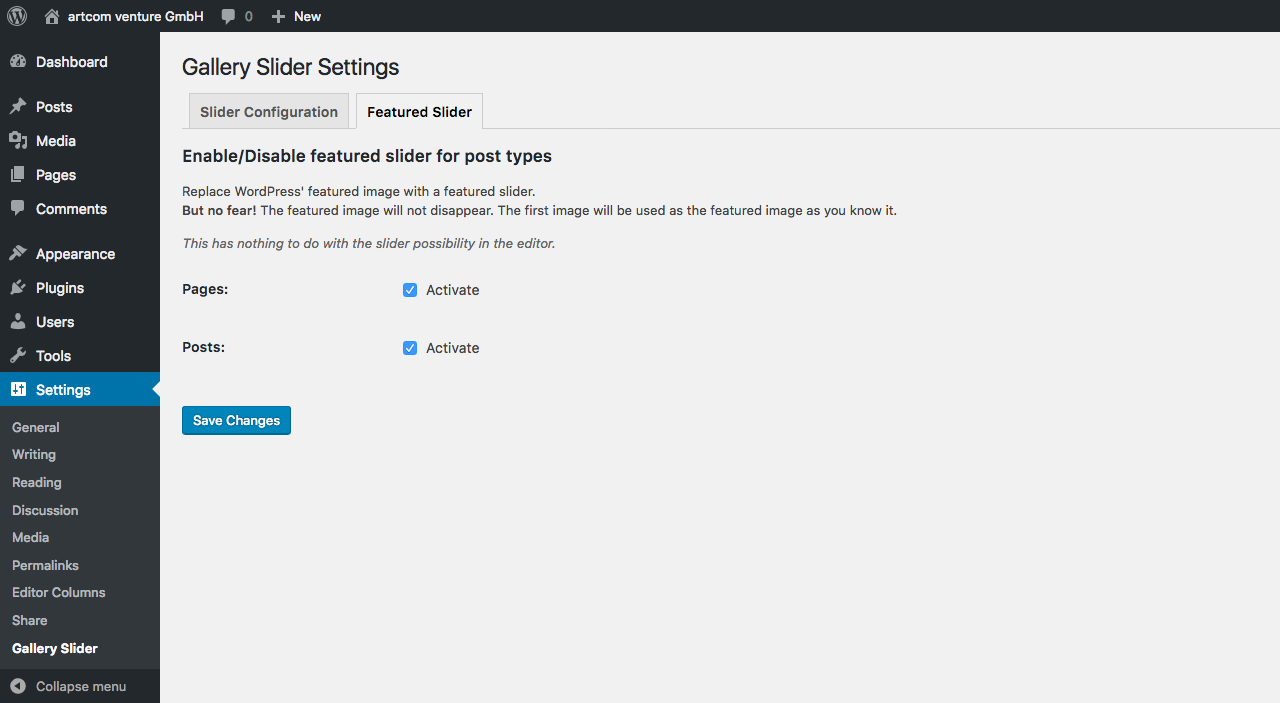
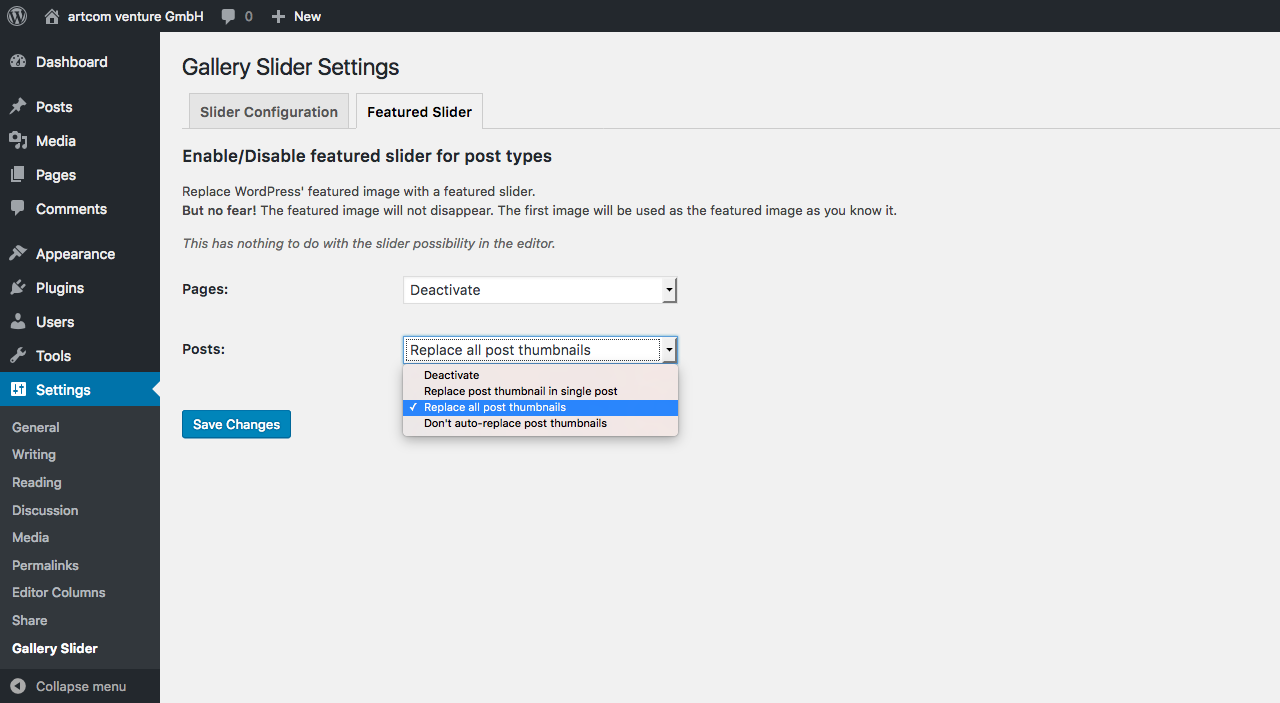
Added more display settings for featured slider.

diff --git a/build/js/settings.options-page.min.js b/build/js/settings.options-page.min.js
@@ -1,1 +1,1 @@
-!function(a){var t=a('input[name="_wp_http_referer"]'),e=a("div.nav-section"),n=a("a.nav-tab").on("click",function(v){var r=a(this).blur();if(!r.hasClass("nav-tab-active")){var i=r[0].search.match(/(\?|&)tab=([^&]*)/);if(i){var l=a("#"+i[2]);l.length&&(v.preventDefault(),n.removeClass("nav-tab-active"),r.addClass("nav-tab-active"),e.hide(),l.show(),window.history.pushState(null,null,r.prop("href")),t.val(t.val().replace(/(\?|&)tab=([^&]*)/,"$1tab="+i[2])))}}})}(jQuery);
+!function(a){var t=a('input[name="_wp_http_referer"]'),e=a("div.nav-section"),n=a("a.nav-tab").on("click",function(i){var r=a(this).blur();if(!r.hasClass("nav-tab-active")){var v=r[0].search.match(/(\?|&)tab=([^&]*)/);if(v){var l=a("#"+v[2]);l.length&&(i.preventDefault(),n.removeClass("nav-tab-active"),r.addClass("nav-tab-active"),e.hide(),l.show(),window.history.pushState(null,null,r.prop("href")),t.val(t.val().replace(/(\?|&)tab=([^&]*)/,"$1tab="+v[2])))}}});window.location.search.match(/(\?|&)tab=([^&]*)/)||(window.location.href=n[0].href)}(jQuery);

diff --git a/js/settings.options-page.min.js b/js/settings.options-page.min.js
@@ -1,1 +1,1 @@
-!function(a){var t=a('input[name="_wp_http_referer"]'),e=a("div.nav-section"),n=a("a.nav-tab").on("click",function(v){var r=a(this).blur();if(!r.hasClass("nav-tab-active")){var i=r[0].search.match(/(\?|&)tab=([^&]*)/);if(i){var l=a("#"+i[2]);l.length&&(v.preventDefault(),n.removeClass("nav-tab-active"),r.addClass("nav-tab-active"),e.hide(),l.show(),window.history.pushState(null,null,r.prop("href")),t.val(t.val().replace(/(\?|&)tab=([^&]*)/,"$1tab="+i[2])))}}})}(jQuery);
+!function(a){var t=a('input[name="_wp_http_referer"]'),e=a("div.nav-section"),n=a("a.nav-tab").on("click",function(i){var r=a(this).blur();if(!r.hasClass("nav-tab-active")){var v=r[0].search.match(/(\?|&)tab=([^&]*)/);if(v){var l=a("#"+v[2]);l.length&&(i.preventDefault(),n.removeClass("nav-tab-active"),r.addClass("nav-tab-active"),e.hide(),l.show(),window.history.pushState(null,null,r.prop("href")),t.val(t.val().replace(/(\?|&)tab=([^&]*)/,"$1tab="+v[2])))}}});window.location.search.match(/(\?|&)tab=([^&]*)/)||(window.location.href=n[0].href)}(jQuery);

diff --git a/build/js/slider.js b/build/js/slider.js
@@ -1,5 +1,5 @@
 /**
- * Slider v1.10.3
+ * Slider v1.10.4
  * https://github.com/artcomventure/wordpress-plugin-slider/blob/master/build/js/slider[.min].js
  *
  * Copyright 2016, artcom venture GmbH

diff --git a/build/js/slider.min.js b/build/js/slider.min.js
@@ -1,5 +1,5 @@
 /**
- * Slider v1.10.3
+ * Slider v1.10.4
  * https://github.com/artcomventure/wordpress-plugin-slider/blob/master/build/js/slider[.min].js
  *
  * Copyright 2016, artcom venture GmbH

diff --git a/js/slider.js b/js/slider.js
@@ -1,5 +1,5 @@
 /**
- * Slider v1.10.3
+ * Slider v1.10.4
  * https://github.com/artcomventure/wordpress-plugin-slider/blob/master/build/js/slider[.min].js
  *
  * Copyright 2016, artcom venture GmbH

diff --git a/js/slider.min.js b/js/slider.min.js
@@ -1,5 +1,5 @@
 /**
- * Slider v1.10.3
+ * Slider v1.10.4
  * https://github.com/artcomventure/wordpress-plugin-slider/blob/master/build/js/slider[.min].js
  *
  * Copyright 2016, artcom venture GmbH

diff --git a/build/js/settings.options-page.js b/build/js/settings.options-page.js
@@ -28,4 +28,9 @@
 
         } );
 
+    // ...
+    if ( !window.location.search.match( /(\?|&)tab=([^&]*)/ ) ) {
+        window.location.href = $tabs[0].href;
+    }
+
 })( jQuery );

diff --git a/js/settings.options-page.js b/js/settings.options-page.js
@@ -28,4 +28,9 @@
 
         } );
 
+    // ...
+    if ( !window.location.search.match( /(\?|&)tab=([^&]*)/ ) ) {
+        window.location.href = $tabs[0].href;
+    }
+
 })( jQuery );

diff --git a/build/slider.php b/build/slider.php
@@ -4,7 +4,7 @@
  * Plugin Name: Gallery Slider
  * Plugin URI: https://github.com/artcomventure/wordpress-plugin-slider
  * Description: Extends WP's gallery (media popup) with a slider option.
- * Version: 1.10.3
+ * Version: 1.10.4
  * Text Domain: slider
  * Author: artcom venture GmbH
  * Author URI: http://www.artcom-venture.de/
@@ -138,7 +138,7 @@ function slider__print_media_templates() {
 							if ( !wp.media.frame.options.editing ) {
 								$columns.val( bIsSlider && $columns.val() == wp.media.gallery.defaults.columns
 									? <?php echo $defaults['columns']; ?>
-									: ( $columns.val() == <?php echo $defaults['columns']; ?> ? wp.media.gallery.defaults.columns : $columns.val() )
+									: ( !bIsSlider && $columns.val() == <?php echo $defaults['columns']; ?> ? wp.media.gallery.defaults.columns : $columns.val() )
 								);
 							}
 
@@ -174,7 +174,7 @@ add_action( 'wp_enqueue_scripts', 'slider_scripts' );
 function slider_scripts() {
 	wp_enqueue_style( 'slider', SLIDER_PLUGIN_URL . 'css/slider.min.css', array(), '1.10.1' );
 
-	wp_enqueue_script( 'slider', SLIDER_PLUGIN_URL . 'js/slider.min.js', array(), '1.10.3', TRUE );
+	wp_enqueue_script( 'slider', SLIDER_PLUGIN_URL . 'js/slider.min.js', array(), '1.10.4', TRUE );
 
 	wp_add_inline_script( 'slider', "(function ( window, document, undefined ) {
 

diff --git a/slider.php b/slider.php
@@ -4,7 +4,7 @@
  * Plugin Name: Gallery Slider
  * Plugin URI: https://github.com/artcomventure/wordpress-plugin-slider
  * Description: Extends WP's gallery (media popup) with a slider option.
- * Version: 1.10.3
+ * Version: 1.10.4
  * Text Domain: slider
  * Author: artcom venture GmbH
  * Author URI: http://www.artcom-venture.de/
@@ -138,7 +138,7 @@ function slider__print_media_templates() {
 							if ( !wp.media.frame.options.editing ) {
 								$columns.val( bIsSlider && $columns.val() == wp.media.gallery.defaults.columns
 									? <?php echo $defaults['columns']; ?>
-									: ( $columns.val() == <?php echo $defaults['columns']; ?> ? wp.media.gallery.defaults.columns : $columns.val() )
+									: ( !bIsSlider && $columns.val() == <?php echo $defaults['columns']; ?> ? wp.media.gallery.defaults.columns : $columns.val() )
 								);
 							}
 
@@ -174,7 +174,7 @@ add_action( 'wp_enqueue_scripts', 'slider_scripts' );
 function slider_scripts() {
 	wp_enqueue_style( 'slider', SLIDER_PLUGIN_URL . 'css/slider.min.css', array(), '1.10.1' );
 
-	wp_enqueue_script( 'slider', SLIDER_PLUGIN_URL . 'js/slider.min.js', array(), '1.10.3', TRUE );
+	wp_enqueue_script( 'slider', SLIDER_PLUGIN_URL . 'js/slider.min.js', array(), '1.10.4', TRUE );
 
 	wp_add_inline_script( 'slider', "(function ( window, document, undefined ) {
 

diff --git a/build/inc/featured-slider.php b/build/inc/featured-slider.php
@@ -24,13 +24,20 @@ function get_the_featured_slider( $post = null ) {
  */
 add_filter( 'post_thumbnail_html', 'featured_slider__post_thumbnail_html', 10, 5 );
 function featured_slider__post_thumbnail_html( $html, $post_id, $post_thumbnail_id, $size, $attr ) {
-	if ( ( $post = get_post( $post_id ) ) && is_singular( $post->post_type ) && ( $featured_slider_enabled_post_types = get_featured_slider_post_types() ) ) {
+	if ( ( $post = get_post( $post_id ) ) && ( $featured_slider_enabled_post_types = get_featured_slider_post_types() ) ) {
 		if ( array_key_exists( $post->post_type, $featured_slider_enabled_post_types ) ) {
 			$post_thumnbail = $html;
 
-			if ( !$html = get_the_featured_slider( $post ) ) {
-				// fallback to default post thumbnail
-				$html = $post_thumnbail;
+			switch ( $featured_slider_enabled_post_types[$post->post_type] ) {
+				case '1':
+					if ( !is_singular( $post->post_type ) ) break;
+
+				case '2':
+					if ( !$html = get_the_featured_slider( $post ) ) {
+						// fallback to default post thumbnail
+						$html = $post_thumnbail;
+					}
+					break;
 			}
 		}
 	}

diff --git a/inc/featured-slider.php b/inc/featured-slider.php
@@ -24,13 +24,20 @@ function get_the_featured_slider( $post = null ) {
  */
 add_filter( 'post_thumbnail_html', 'featured_slider__post_thumbnail_html', 10, 5 );
 function featured_slider__post_thumbnail_html( $html, $post_id, $post_thumbnail_id, $size, $attr ) {
-	if ( ( $post = get_post( $post_id ) ) && is_singular( $post->post_type ) && ( $featured_slider_enabled_post_types = get_featured_slider_post_types() ) ) {
+	if ( ( $post = get_post( $post_id ) ) && ( $featured_slider_enabled_post_types = get_featured_slider_post_types() ) ) {
 		if ( array_key_exists( $post->post_type, $featured_slider_enabled_post_types ) ) {
 			$post_thumnbail = $html;
 
-			if ( !$html = get_the_featured_slider( $post ) ) {
-				// fallback to default post thumbnail
-				$html = $post_thumnbail;
+			switch ( $featured_slider_enabled_post_types[$post->post_type] ) {
+				case '1':
+					if ( !is_singular( $post->post_type ) ) break;
+
+				case '2':
+					if ( !$html = get_the_featured_slider( $post ) ) {
+						// fallback to default post thumbnail
+						$html = $post_thumnbail;
+					}
+					break;
 			}
 		}
 	}
